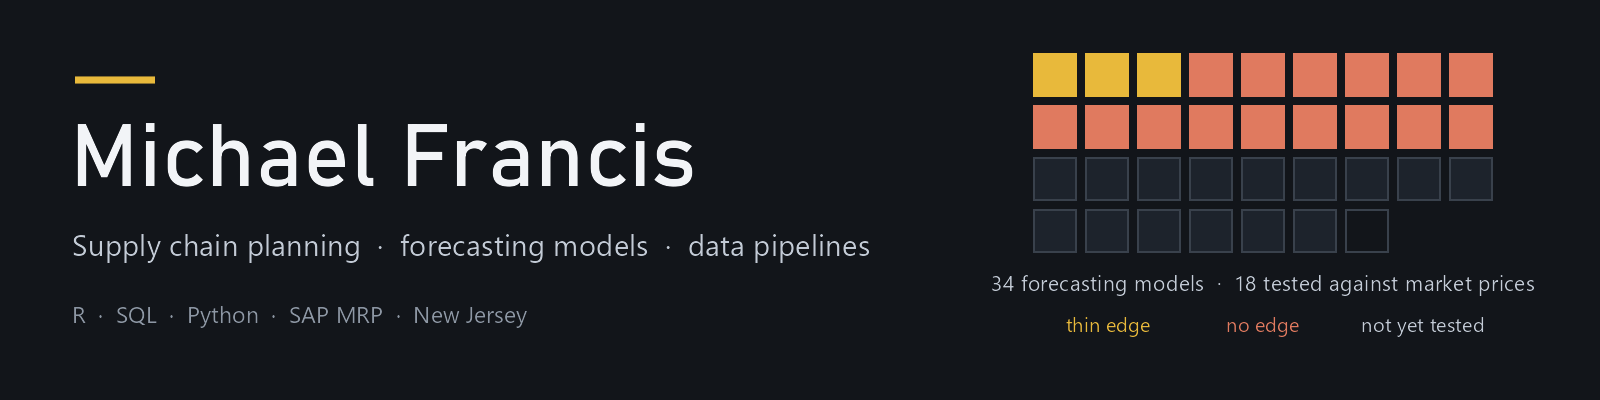
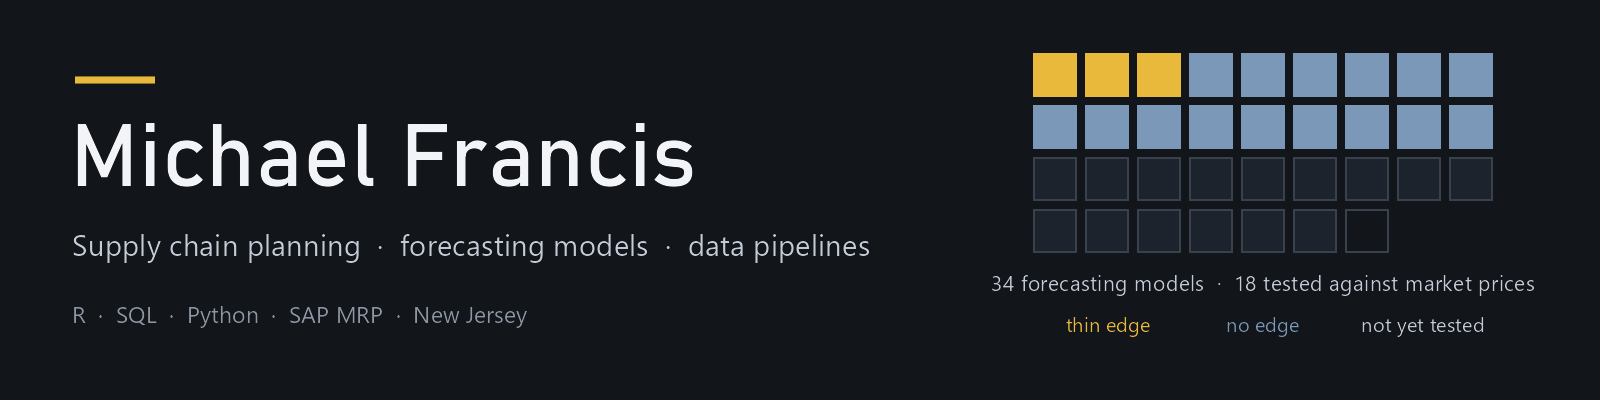
Match the reframed scorecard: slate "no edge" squares, method-first wording

Changed region(s): [[0.625, 0.12, 0.9375, 0.39], [0.7812, 0.81, 0.8125, 0.84]]

diff --git a/README.md b/README.md
@@ -3,8 +3,8 @@
 ### Supply chain planner who builds forecasting models
 
 I work in supply chain: SAP MRP planning, inventory parameters, carriers and raw-material
-procurement. On my own time I build forecasting systems in R. Wherever a market exists, I grade
-them against its prices, the toughest benchmark there is, and I publish the ones that lose.
+procurement. On my own time I build forecasting systems in R, and wherever a market exists I grade
+them against its prices, the hardest benchmark there is.
 
 <table>
   <tr>
@@ -18,9 +18,9 @@ them against its prices, the toughest benchmark there is, and I publish the ones
 ## Featured: the forecast honesty lab
 
 [**forecast-honesty-lab**](https://github.com/ItsMikeF/forecast-honesty-lab) is the scorecard for
-every forecasting model I've documented. **15 of the 18 tested against real market prices lost**,
-and the losers taught me the most. The repo has eight lessons on testing a forecast honestly, each
-with the number that taught it.
+every forecasting model I've documented, graded against real market prices. **3 of the 18 tested
+came out slightly ahead, and the 15 that couldn't beat the market taught me the most.** The repo has
+eight lessons on testing a forecast honestly, each with the number that taught it.
 
 <a href="https://github.com/ItsMikeF/forecast-honesty-lab"><img src="assets/scorecard.png" alt="Scorecard of 34 forecasting models: 0 proven, 3 thin edge, 15 no edge, 15 never market-tested, 1 retired" width="100%"></a>
 
@@ -32,8 +32,8 @@ with the number that taught it.
   on is measuring memory ([lesson 1](https://github.com/ItsMikeF/forecast-honesty-lab#1-the-model-has-to-be-as-of-not-just-the-data)).
 - **Every new feature races a column of random noise.** If noise improves the metric too, the
   gain isn't real ([lesson 3](https://github.com/ItsMikeF/forecast-honesty-lab#3-every-new-feature-has-to-beat-random-noise)).
-- **The losers get published too.** A tier moves on a market test only, never on an accuracy
-  gain.
+- **Every result gets published, misses included.** A model moves up only on a market test, never
+  on an accuracy gain.
 
 ## Also in the private repo
 
